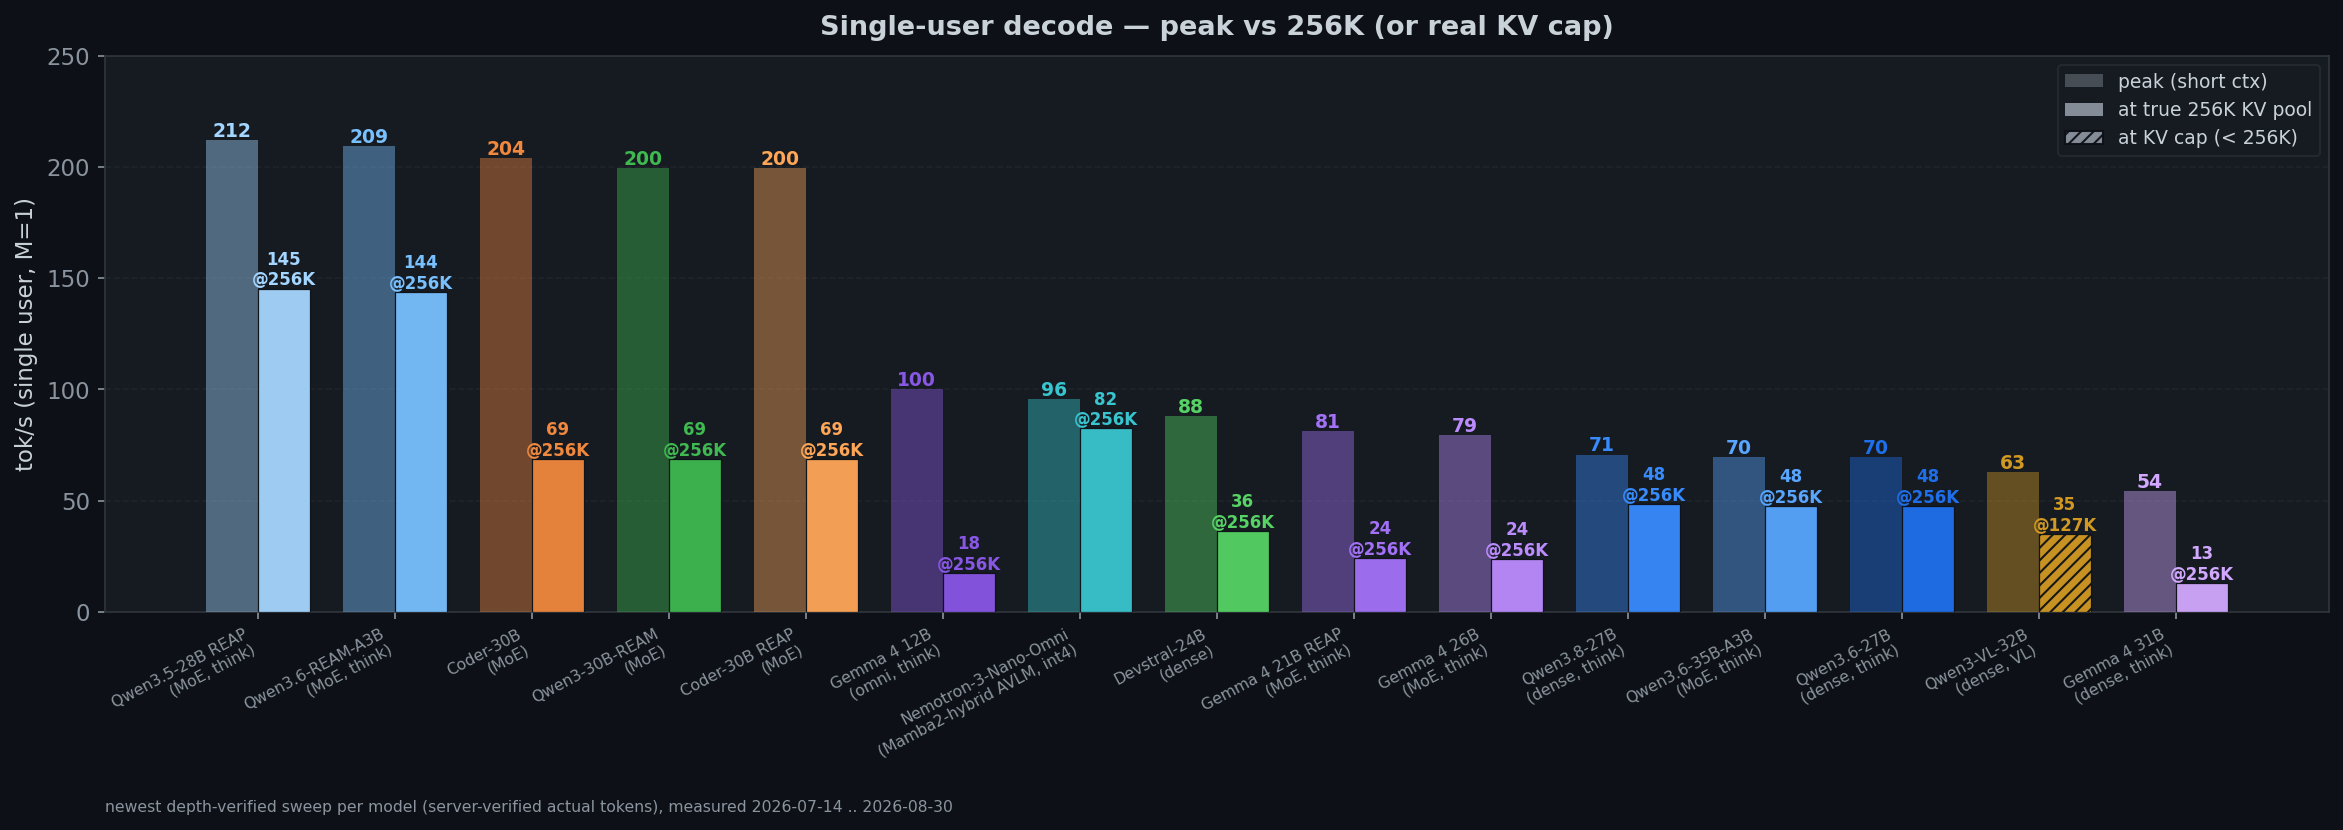
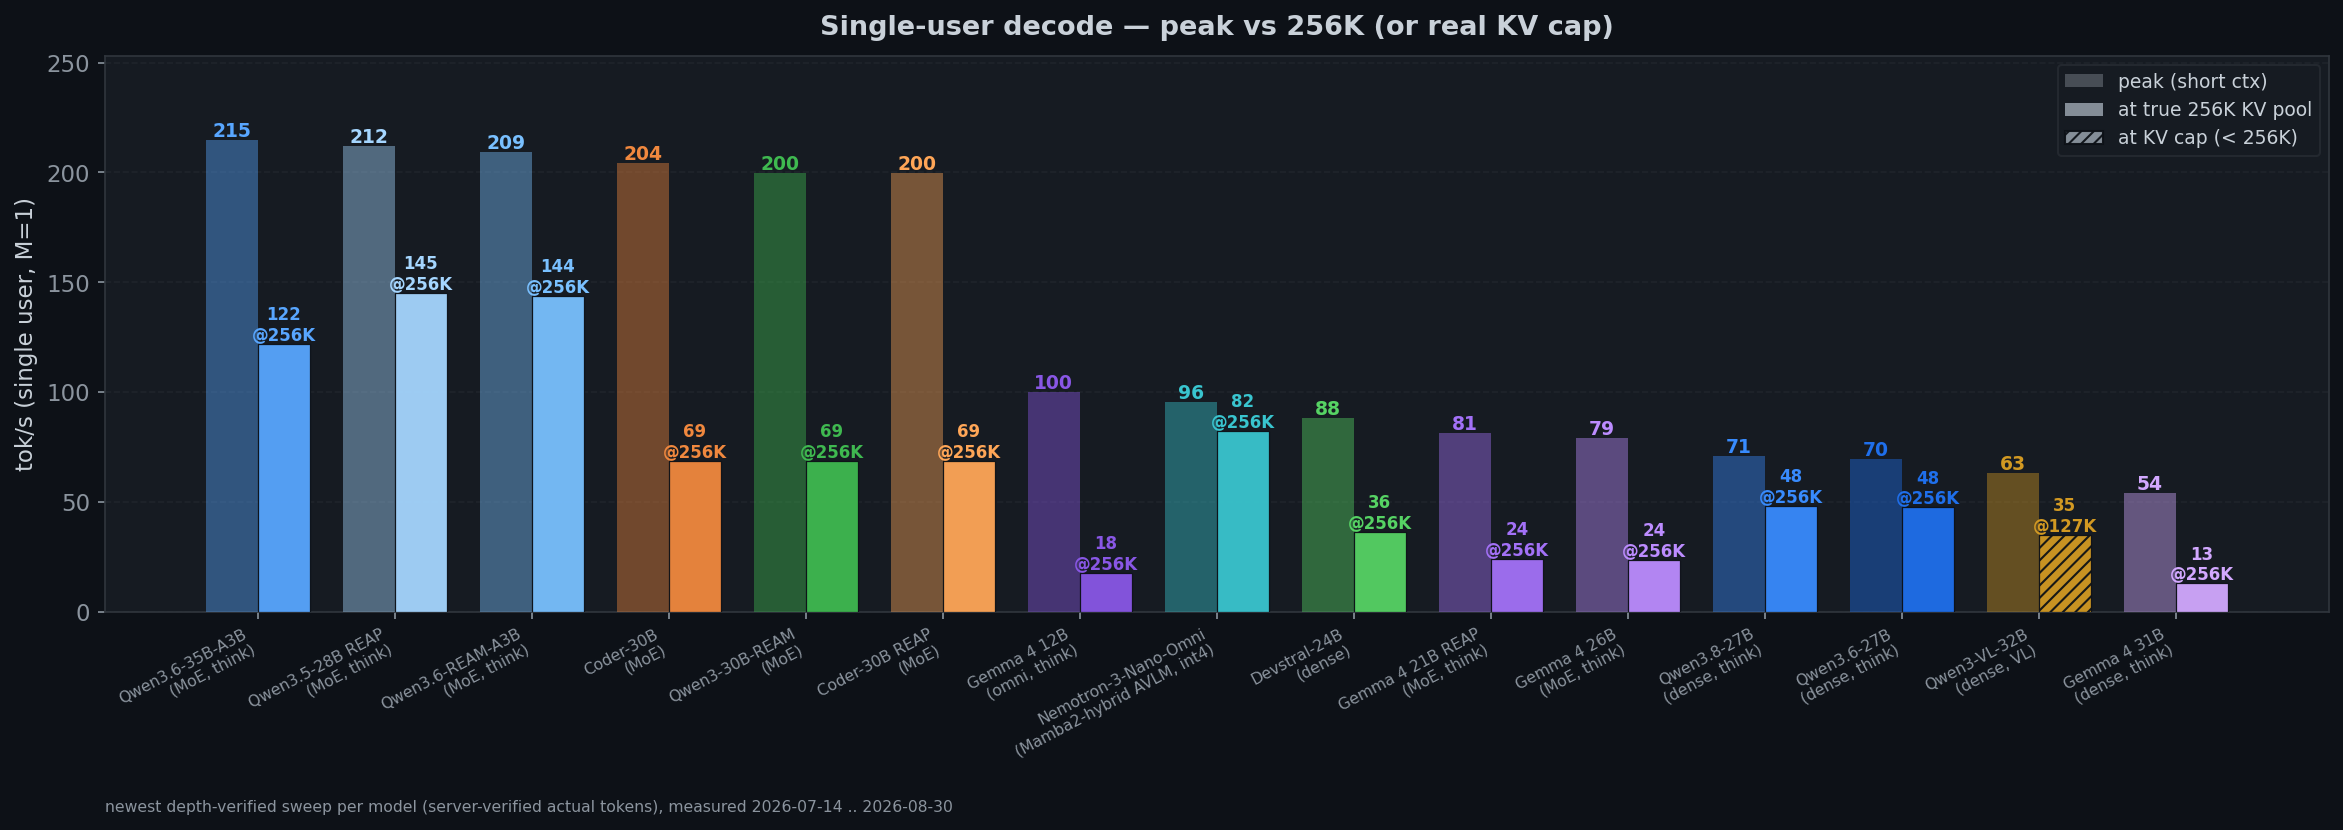
charts: fix regression-run glob collision (qwen36 read the dense sweep since 08-30), add SWE-bench bake-off chart, refresh 5 stale cell receipts
latest_regression_run("qwen36") matched qwen36-dense-*.json and the dense
sweep was newer, so all_models_decode.png showed the 35B-A3B MoE at 70/48
instead of 215/122 tok/s. Anchor the glob on the date suffix.

make_bakeoff_chart(): resolve rate per preset x scaffold from the
bakeoff-<preset>-<scaffold>.json cells, sub-300 cells hatched.

Cell receipts re-aggregated from runs/*-v2/scores-docker-summary.json where
the counts had drifted (qwen36-ream claw 74/168 -> 122/300 = 40.7%, qwen36
claw 155 -> 161, qwen36-dense opencode 186 -> 187, coder-30b-ream lc 73 -> 76).

Claude-Session: https://claude.ai/code/session_019JtCL6HrXSrD3iHQK41ZX6

diff --git a/scripts/bench/generate_charts.py b/scripts/bench/generate_charts.py
@@ -10,6 +10,7 @@ throughput-tuned defaults; re-benchmark sweeps at 256K are queued.
 import os
 import glob
 import json
+import re
 import matplotlib
 matplotlib.use("Agg")
 import matplotlib.pyplot as plt
@@ -61,7 +62,13 @@ MODELS = {
 def latest_regression_run(preset):
     """Newest benchmarks/regression/<preset>-<date>.json (the throughput
     tripwire's depth-verified 1K / 32K / deep sweep), or None."""
-    runs = glob.glob(os.path.join(BENCH_DIR, "regression", f"{preset}-*.json"))
+    # Anchor on the date suffix: `qwen36-*.json` would also match
+    # `qwen36-dense-2026-08-30.json`, and from 2026-08-30 the dense sweep
+    # (05:03) was newer than qwen36's own (04:56) — the decode bar chart showed
+    # the 35B-A3B MoE at the dense 27B's 70/48 tok/s instead of 215/122.
+    pat = re.compile(rf"^{re.escape(preset)}-\d{{4}}-\d{{2}}-\d{{2}}\.json$")
+    runs = [p for p in glob.glob(os.path.join(BENCH_DIR, "regression", f"{preset}-*.json"))
+            if pat.match(os.path.basename(p))]
     best = None
     for path in runs:
         try:
@@ -496,6 +503,86 @@ def make_decode_bar_chart(all_data):
     print(f"  {out}")
 
 
+# Scaffold display order for the bake-off chart: the live 2026-08-31 roster
+# first, retired scaffolds (claw-code) last so historical cells still show.
+BAKEOFF_SCAFFOLDS = [
+    ("opencode",         "#58a6ff", "opencode"),
+    ("opencode-dcp",     "#1f6feb", "opencode + DCP"),
+    ("little-coder",     "#3fb950", "little-coder"),
+    ("little-coder-rtk", "#2ea043", "little-coder + RTK"),
+    ("prime",            "#d2a8ff", "prime"),
+    ("dcode",            "#f0883e", "dcode"),
+    ("claw-code",        "#8b949e", "claw-code (retired)"),
+]
+
+
+def make_bakeoff_chart():
+    """SWE-bench Lite resolve rate per preset × scaffold, from the per-cell
+    JSONs `benchmarks/quality/bakeoff-<preset>-<scaffold>.json` that
+    `evals/swebench/aggregate_bakeoff.py` writes. Cells under 300 predictions
+    are hatched — the full-300 rule: partial cells are not comparable."""
+    from matplotlib.patches import Patch
+    cells = {}
+    for path in glob.glob(os.path.join(BENCH_DIR, "quality", "bakeoff-*.json")):
+        try:
+            d = json.load(open(path))
+        except Exception:
+            continue
+        if not d.get("preset") or not d.get("scaffold") or d.get("resolved") is None:
+            continue
+        cells[(d["preset"], d["scaffold"])] = d
+    if not cells:
+        print("  SKIP bake-off chart (no cell JSONs)")
+        return
+    scaffolds = [s for s in BAKEOFF_SCAFFOLDS if any(k[1] == s[0] for k in cells)]
+    presets = sorted({k[0] for k in cells},
+                     key=lambda p: -max(c["resolve_rate_pct"] for (pp, _), c in cells.items() if pp == p))
+    x = np.arange(len(presets)); n = len(scaffolds); w = min(0.8 / n, 0.26)
+    fig, ax = plt.subplots(figsize=(max(11, 1.6 * len(presets)), 6))
+    partial = False
+    for j, (sc, color, label) in enumerate(scaffolds):
+        off = (j - (n - 1) / 2) * w
+        for i, p in enumerate(presets):
+            c = cells.get((p, sc))
+            if not c:
+                continue
+            full = c.get("total_predictions", 0) >= 300
+            partial |= not full
+            rate = c["resolve_rate_pct"]
+            ax.bar(x[i] + off, rate, w, color=color, alpha=0.95 if full else 0.55,
+                   hatch=None if full else "////", edgecolor="#0d1117", linewidth=0.6,
+                   zorder=5, label=label if i == 0 or (p, sc) == next(k for k in cells if k[1] == sc) else None)
+            ax.text(x[i] + off, rate + 0.8, f"{rate:.1f}", ha="center", fontsize=7.5,
+                    color=color, fontweight="bold")
+    # de-duplicate legend entries (one per scaffold)
+    handles, labels = ax.get_legend_handles_labels()
+    seen, hl = set(), []
+    for h, l in zip(handles, labels):
+        if l not in seen:
+            seen.add(l); hl.append((h, l))
+    if partial:
+        hl.append((Patch(facecolor="#8b949e", alpha=0.55, hatch="////", edgecolor="#0d1117"),
+                   "partial cell (< 300) — not comparable"))
+    ax.legend([h for h, _ in hl], [l for _, l in hl], loc="upper right", framealpha=0.5,
+              edgecolor="#30363d", facecolor="#161b22", fontsize=8.5)
+    ax.set_xticks(x); ax.set_xticklabels(presets, fontsize=9, rotation=20, ha="right")
+    ax.set_ylabel("SWE-bench Lite resolved (%)")
+    ax.set_ylim(0, max(c["resolve_rate_pct"] for c in cells.values()) * 1.25)
+    ax.set_title("SWE-bench Lite (300 instances) — resolve rate per preset × scaffold, 256K single-user",
+                 fontsize=12.5, fontweight="bold", pad=10)
+    ax.grid(True, axis="y", linestyle="--")
+    dates = sorted(str(c.get("timestamp", ""))[:10] for c in cells.values() if c.get("timestamp"))
+    ax.text(0.0, -0.22, "v2 Docker harness, swebench scorer 4.1.0, AWQ-int4 presets at full context, "
+            "one attempt per instance (resolved / 300); "
+            + (f"cell receipts {dates[0]} .. {dates[-1]}" if dates else ""),
+            transform=ax.transAxes, fontsize=7.5, color="#8b949e")
+    fig.tight_layout()
+    out = os.path.join(BENCH_DIR, "bakeoff_swebench_lite.png")
+    fig.savefig(out, dpi=150, bbox_inches="tight")
+    plt.close(fig)
+    print(f"  {out}")
+
+
 def _fmt_tok(n):
     if n >= 1_000_000:
         return f"{n / 1_000_000:.1f}M"
@@ -588,5 +675,8 @@ if __name__ == "__main__":
 
     print("Spec-decode:")
     make_specdec_comparison_chart()
+
+    print("SWE-bench Lite bake-off:")
+    make_bakeoff_chart()
 
     print("\nDone!")
